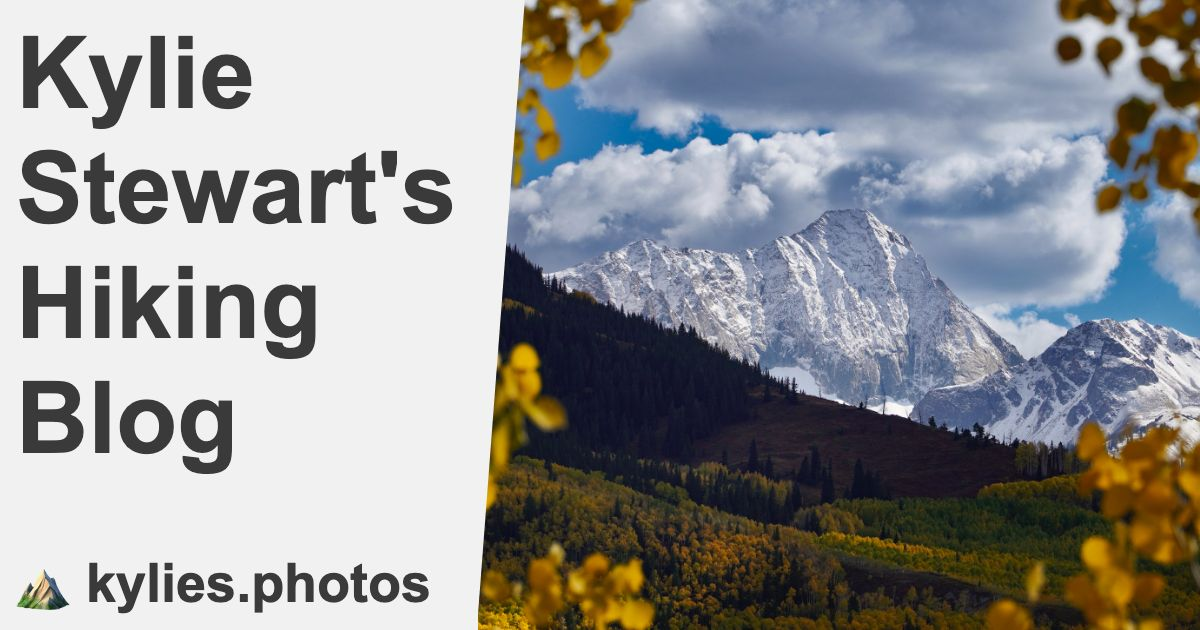
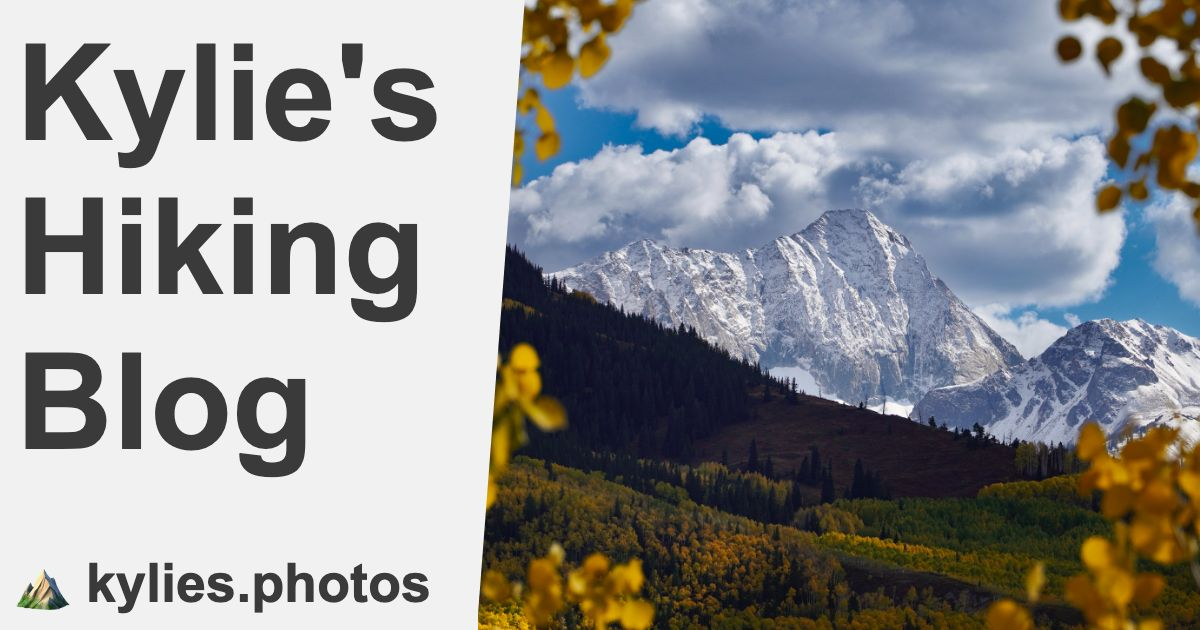
Metadata updates

Changed region(s): [[0.0, 0.0603, 0.4008, 0.754]]

diff --git a/components/CustomHead.js b/components/CustomHead.js
@@ -16,41 +16,41 @@ const CustomHead = (pageProps) => {
       <script
         dangerouslySetInnerHTML={{
           __html: `
-          window.dataLayer = window.dataLayer || [];
-          dataLayer.push({
-            'event': 'Pageview',
-            'pagePath': 'https://www.kylies.photos${router.asPath}',
-            'pageTitle': '${pageProps.title}',
-            'visitorType': 'HARD CODED VISITOR'
-          })
+            window.dataLayer = window.dataLayer || [];
+            dataLayer.push({
+              'event': 'Pageview',
+              'pagePath': 'https://www.kylies.photos${router.asPath}',
+              'pageTitle': '${pageProps.title}',
+              'visitorType': 'HARD CODED VISITOR'
+            })
           `,
         }}
       />
       <script
         dangerouslySetInnerHTML={{
           __html: `
-      <!-- Google Tag Manager -->
-      (function(w, d, s, l, i) {
-        w[l] = w[l] || []
-        w[l].push({ 'gtm.start': new Date().getTime(), event: 'gtm.js' })
-        var f = d.getElementsByTagName(s)[0],
-          j = d.createElement(s),
-          dl = l != 'dataLayer' ? '&l=' + l : ''
-        j.async = true
-        j.src = 'https://www.googletagmanager.com/gtm.js?id=' + i + dl
-        f.parentNode.insertBefore(j, f)
-      })(window, document, 'script', 'dataLayer', 'GTM-5VZPGSC')
-      `,
+            <!-- Google Tag Manager -->
+            (function(w, d, s, l, i) {
+              w[l] = w[l] || []
+              w[l].push({ 'gtm.start': new Date().getTime(), event: 'gtm.js' })
+              var f = d.getElementsByTagName(s)[0],
+                j = d.createElement(s),
+                dl = l != 'dataLayer' ? '&l=' + l : ''
+              j.async = true
+              j.src = 'https://www.googletagmanager.com/gtm.js?id=' + i + dl
+              f.parentNode.insertBefore(j, f)
+            })(window, document, 'script', 'dataLayer', 'GTM-5VZPGSC')
+          `,
         }}
       />
       <script
         dangerouslySetInnerHTML={{
           __html: `
-          <!-- Global site tag (gtag.js) - Google Analytics -->
-            
-            function gtag(){dataLayer.push(arguments);}
-            gtag('js', new Date());
-            gtag('config', 'G-W9WRKKHEN8', { page_path: window.location.pathname });
+            <!-- Global site tag (gtag.js) - Google Analytics -->
+              
+              function gtag(){dataLayer.push(arguments);}
+              gtag('js', new Date());
+              gtag('config', 'G-W9WRKKHEN8', { page_path: window.location.pathname });
           `,
         }}
       />
@@ -64,22 +64,6 @@ const CustomHead = (pageProps) => {
         content={`https://raw.githubusercontent.com/kale-stew/climb-log/main/public/open-graph/${pageProps.ogImage}`}
       />
 
-      <meta
-        property="og:description"
-        content={
-          pageProps.description
-            ? pageProps.description
-            : `${METADATA.NAME} is climbing the high peaks of Colorado.`
-        }
-      />
-      <meta
-        name="description"
-        content={
-          pageProps.description
-            ? pageProps.description
-            : `${METADATA.NAME} is climbing the high peaks of Colorado.`
-        }
-      />
       <meta property="og:image" content={`/open-graph/${pageProps.ogImage}`} />
       <meta property="og:image:width" content={FacebookOpenGraph.width} />
       <meta property="og:image:height" content={FacebookOpenGraph.height} />
@@ -88,6 +72,22 @@ const CustomHead = (pageProps) => {
 
       <meta property="og:title" content={pageProps.title} />
       <title>{`${pageProps.title} · ${METADATA.SITE_NAME}`}</title>
+      <meta
+        property="og:description"
+        content={
+          pageProps.description
+            ? pageProps.description
+            : `${METADATA.FULL_NAME}'s photography, climbing log, and hiking blog.`
+        }
+      />
+      <meta
+        name="description"
+        content={
+          pageProps.description
+            ? pageProps.description
+            : `${METADATA.FULL_NAME}'s photography, climbing log, and hiking blog.`
+        }
+      />
     </Head>
   )
 }

diff --git a/pages/about.js b/pages/about.js
@@ -13,12 +13,12 @@ const baseName = 'about'
 const AboutPage = () => (
   <Layout>
     <h1 className={`${utilStyles.headingXl} ${utilStyles.centerText}`}>
-      More about {METADATA.NAME}
+      About {METADATA.FIRST_NAME}
     </h1>
     <br />
     <div className={styles.aboutBlock}>
       <ResponsiveImage
-        altTxt={`A photo of the author, ${METADATA.NAME}`}
+        altTxt={`A photo of the author, ${METADATA.FULL_NAME}`}
         desktopImg={HeadshotFull}
         wrapperCn={styles.aboutImage}
         desktopDimensions={{ width: 300, height: 412 }}
@@ -29,7 +29,7 @@ const AboutPage = () => (
 
       <div className={styles.aboutBlockText}>
         <p>
-          {METADATA.NAME} is a web developer, avid hiker, amateur mountaineer and
+          {METADATA.FULL_NAME} is a web developer, avid hiker, amateur mountaineer and
           photo-taker. She spends her time hiking Colorado's high peaks and researching
           its terrain when she's not working from home alongside her fiancé or walking
           their dog, Otis, around the local alpine lake.
@@ -47,7 +47,7 @@ const AboutPage = () => (
         <p>
           To stay up to date with Kylie's climbs, follow her{' '}
           <a href="https://www.instagram.com/kalestews/">on Instagram</a>. If you want to
-          check out some of Kylie's other projects, check out her{' '}
+          check out some of Kylie's other projects, visit her{' '}
           <a href="https://kylieis.online">personal site</a>. To discuss working together,
           send her{' '}
           <a href="mailto:kylie@hey.com" network="email">
@@ -77,7 +77,7 @@ const AboutPage = () => (
 )
 
 export async function getStaticProps() {
-  const title = `About ${METADATA.NAME}`
+  const title = `About ${METADATA.FULL_NAME}`
   const description = 'Photographer, hiker, and web developer.'
 
   return {

diff --git a/utils/constants.js b/utils/constants.js
@@ -66,12 +66,13 @@ export const EXPLORE = [
 ]
 
 export const METADATA = {
-  NAME: 'Kylie Stewart',
+  FIRST_NAME: 'Kylie',
+  FULL_NAME: 'Kylie Stewart',
   SITE_NAME: 'kylies.photos',
 }
 
 export const PREVIEW_IMAGES = {
-  ABOUT_IMAGE: 'https://live.staticflickr.com/65535/51791518735_55a15b6aca_k.jpg',
+  ABOUT_IMAGE: 'https://live.staticflickr.com/65535/51791228456_aa3e462b7f_k.jpg',
   BLOG_FALLBACK_IMAGE: 'https://live.staticflickr.com/65535/51716926587_ba8bbedd69_b.jpg',
   CLIMB_LOG_IMAGE: 'https://live.staticflickr.com/65535/51789832732_041ee645fa_k.jpg',
   FALLBACK_IMAGE: 'https://live.staticflickr.com/65535/51721573796_c2143acb54_b.jpg',

diff --git a/public/index.html b/public/index.html
@@ -9,9 +9,6 @@
   <link rel="manifest" href="%PUBLIC_URL%/web.manifest" />
   <link rel="icon" href="%PUBLIC_URL%/favicon.ico" />
   <link rel="apple-touch-icon" sizes="180x180" href="%PUBLIC_URL%/logo192.png">
-
-  <title>kylies.photos</title>
-  <meta name="description" content="Kylie Stewart's Climbing Log, Photography, and Hiking Blog." />
 </head>
 
 <body>
@@ -21,8 +18,6 @@
       style="display:none;visibility:hidden">
     </iframe>
   </noscript>
-
-  <noscript>You need to enable JavaScript to run this app.</noscript>
   <div id="root"></div>
 </body>
 

diff --git a/pages/index.js b/pages/index.js
@@ -45,8 +45,8 @@ const HomePage = ({ featuredPosts }) => (
 
 export async function getStaticProps() {
   const featuredPosts = await getRecentPosts()
-  const title = `Colorado Hiking & Photography`
-  const description = `${METADATA.NAME} is climbing the high peaks of Colorado.`
+  const title = `${METADATA.FIRST_NAME}'s Climbing Log and Hiking Blog`
+  const description = `${METADATA.FULL_NAME}'s photography, climbing log, and hiking blog.`
 
   return {
     props: {

diff --git a/pages/climb-log.js b/pages/climb-log.js
@@ -271,8 +271,8 @@ const ClimbLog = ({ allClimbs }) => {
 
 export async function getStaticProps() {
   const response = await fetchAllClimbs()
-  const title = `${METADATA.NAME}'s Climb Log`
-  const description = `All of ${METADATA.NAME}'s trip reports and hiking stats.`
+  const title = `${METADATA.FIRST_NAME}'s Climb Log`
+  const description = `All of ${METADATA.FIRST_NAME}'s trip reports and hiking stats.`
 
   return {
     props: {

diff --git a/components/ResponsiveImage.js b/components/ResponsiveImage.js
@@ -9,7 +9,7 @@ import utilStyles from '../styles/utils.module.css'
  * supplied via the `mobileCn` prop.
  */
 const ResponsiveImage = ({
-  altTxt = `An image taken by ${METADATA.NAME}.`,
+  altTxt = `An image taken by ${METADATA.FULL_NAME}.`,
   desktopDimensions = { width: '100%', height: '100%' },
   desktopImg,
   mobileDimensions = { width: '100%', height: '100%' },

diff --git a/pages/blog.js b/pages/blog.js
@@ -89,7 +89,7 @@ export default function BlogLandingPage({ allPostsData }) {
 
 export async function getStaticProps() {
   const allPostsData = getSortedPostsData()
-  const title = `${METADATA.NAME}'s Hiking Blog`
+  const title = `${METADATA.FIRST_NAME}'s Hiking Blog`
   const description = 'Thoughts, trip reports, and gear posts.'
 
   return {

diff --git a/pages/404.js b/pages/404.js
@@ -23,7 +23,7 @@ const NotFoundPage = () => {
 
 export async function getStaticProps() {
   const title = 'Page Not Found'
-  const description = `${METADATA.NAME}: Photographer, hiker, and web developer.`
+  const description = `${METADATA.FULL_NAME}: Photographer, hiker, and web developer.`
 
   return {
     props: {
